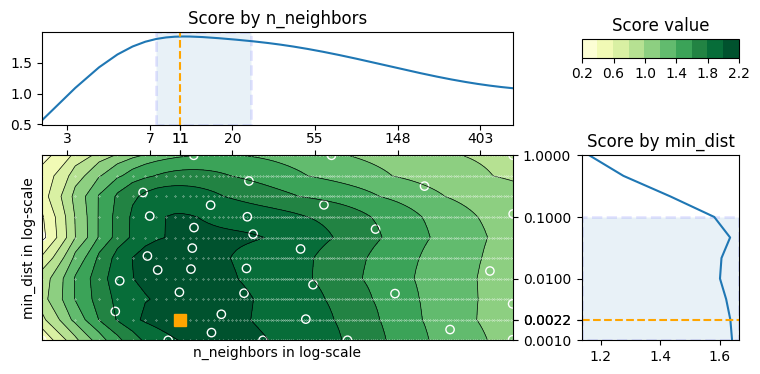
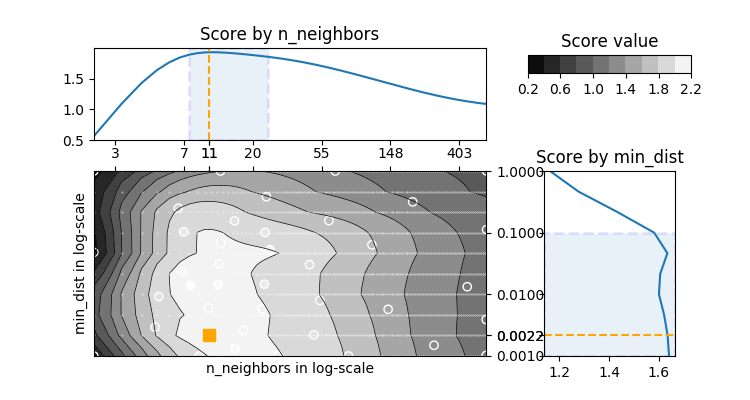
update figures BO predicted density 2D umap

diff --git a/code/bo_plot.py b/code/bo_plot.py
@@ -381,7 +381,7 @@ def plot_prediction_density_2D(
     score_dir: str = "",
     plot_dir: str = "",
     contour_levels=10,
-    contour_cmap="YlGn",
+    contour_cmap="gray",
 ):
     # plot contour/contourf guide:
     # https://matplotlib.org/3.1.1/gallery/images_contours_and_fields/irregulardatagrid.html#sphx-glr-gallery-images-contours-and-fields-irregulardatagrid-py
@@ -415,7 +415,7 @@ def plot_prediction_density_2D(
     Z = predicted.reshape(X.shape)
 
     # plot contour and contourf for the sampled grid
-    fig = plt.figure(figsize=(6 + 3, 2.5 + 1.5))
+    fig = plt.figure(figsize=(5 + 2.5, 2.5 + 1.5))
     gs = gridspec.GridSpec(
         2, 2, height_ratios=[1, 2], width_ratios=[3, 1], wspace=0.22, hspace=0.22
     )
@@ -461,7 +461,8 @@ def plot_prediction_density_2D(
 
     ax.set_ylabel("min_dist in log-scale")
     ax.set_yscale("log", basey=np.e)
-    ax.set_yticks([0.001, 0.01, 0.1, 1.0] + [best_min_dist] * 2)
+    y_ticks = [0.001, 0.01, 0.1, 1.0]
+    ax.set_yticks(y_ticks + ([] if round(best_min_dist, 2) in y_ticks else [best_min_dist] * 2))
     ax.set_ylim(list_min_dist.min(), list_min_dist.max())
     ax.yaxis.set_major_formatter(mpl.ticker.ScalarFormatter())
 
@@ -504,9 +505,10 @@ def plot_prediction_density_2D(
 
     ax2 = plt.subplot(gs[0, 1])
     ax2.axis("off")
-    cax2 = inset_axes(ax2, width="100%", height="20%", loc="upper center")
+    cax2 = inset_axes(ax2, width="125%", height="20%", loc="upper center")
     cbar = fig.colorbar(cntr1, cax=cax2, orientation="horizontal")
     cbar.ax.set_title("Score value")
+    cbar.ax.locator_params(nbins=6)
 
     # ax2.legend((plt_score_by_min_dist, plt_score_by_n_neighbors),
     #           ("Score by min_dis", "Score by n_neighbors"), loc="lower center")
@@ -529,8 +531,8 @@ def plot_density_for_all_datasets(list_datasets=[], list_scores=[]):
                 target_key_name=target_key_name,
                 title=utils.get_score_display_name(target_key_name),
                 score_dir=f"./scores/{dataset_name}/umap/qij",
-                plot_dir=f"./plots/{dataset_name}/umap",
-                # ax=axes[row_idx, col_idx],
+                # plot_dir=f"./plots/{dataset_name}/umap",
+                ax=axes[row_idx, col_idx],
                 fig=fig,
             )
     fig.tight_layout()
